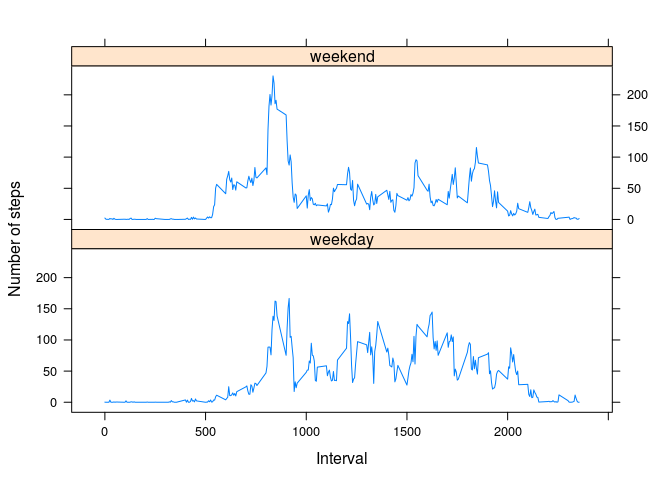
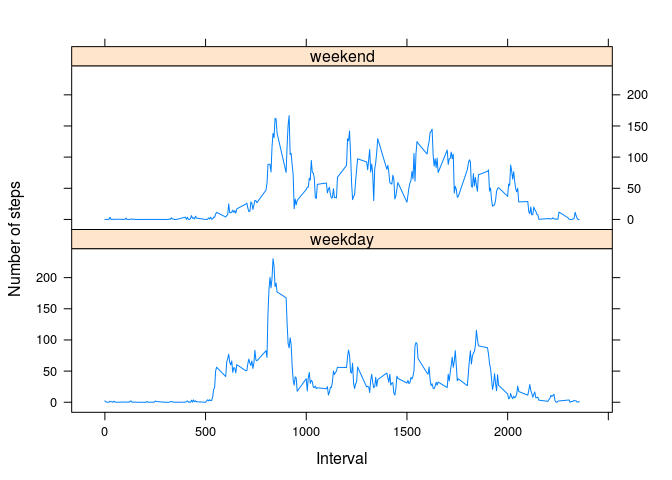
Peer Assessment1 assignment commit

diff --git a/PA1_template.html b/PA1_template.html
@@ -174,8 +174,8 @@ median_steps_f</code></pre>
 <h4>Creating a new (factor) variable in dataset indicating day of the week</h4>
 <pre class="r"><code>library(lubridate)
 activity_f&lt;-mutate(activity_f,day_type=wday(date)&lt;7&amp;wday(date)&gt;1)
-activity_f[activity_f$day_type==T,]$day_type&lt;-&quot;weekend&quot;
-activity_f[activity_f$day_type==F,]$day_type&lt;-&quot;weekday&quot;
+activity_f[activity_f$day_type==T,]$day_type&lt;-&quot;weekday&quot;
+activity_f[activity_f$day_type==F,]$day_type&lt;-&quot;weekend&quot;
 activity_f&lt;-transform(activity_f,day_type=factor(day_type))</code></pre>
 </div>
 <div id="panel-plot-of-the-average-number-of-steps-taken-averaged-over-all-weekendweekdays" class="section level4">

diff --git a/PA1_template.md b/PA1_template.md
@@ -171,8 +171,8 @@ median_steps_f
 ```r
 library(lubridate)
 activity_f<-mutate(activity_f,day_type=wday(date)<7&wday(date)>1)
-activity_f[activity_f$day_type==T,]$day_type<-"weekend"
-activity_f[activity_f$day_type==F,]$day_type<-"weekday"
+activity_f[activity_f$day_type==T,]$day_type<-"weekday"
+activity_f[activity_f$day_type==F,]$day_type<-"weekend"
 activity_f<-transform(activity_f,day_type=factor(day_type))
 ```
 
